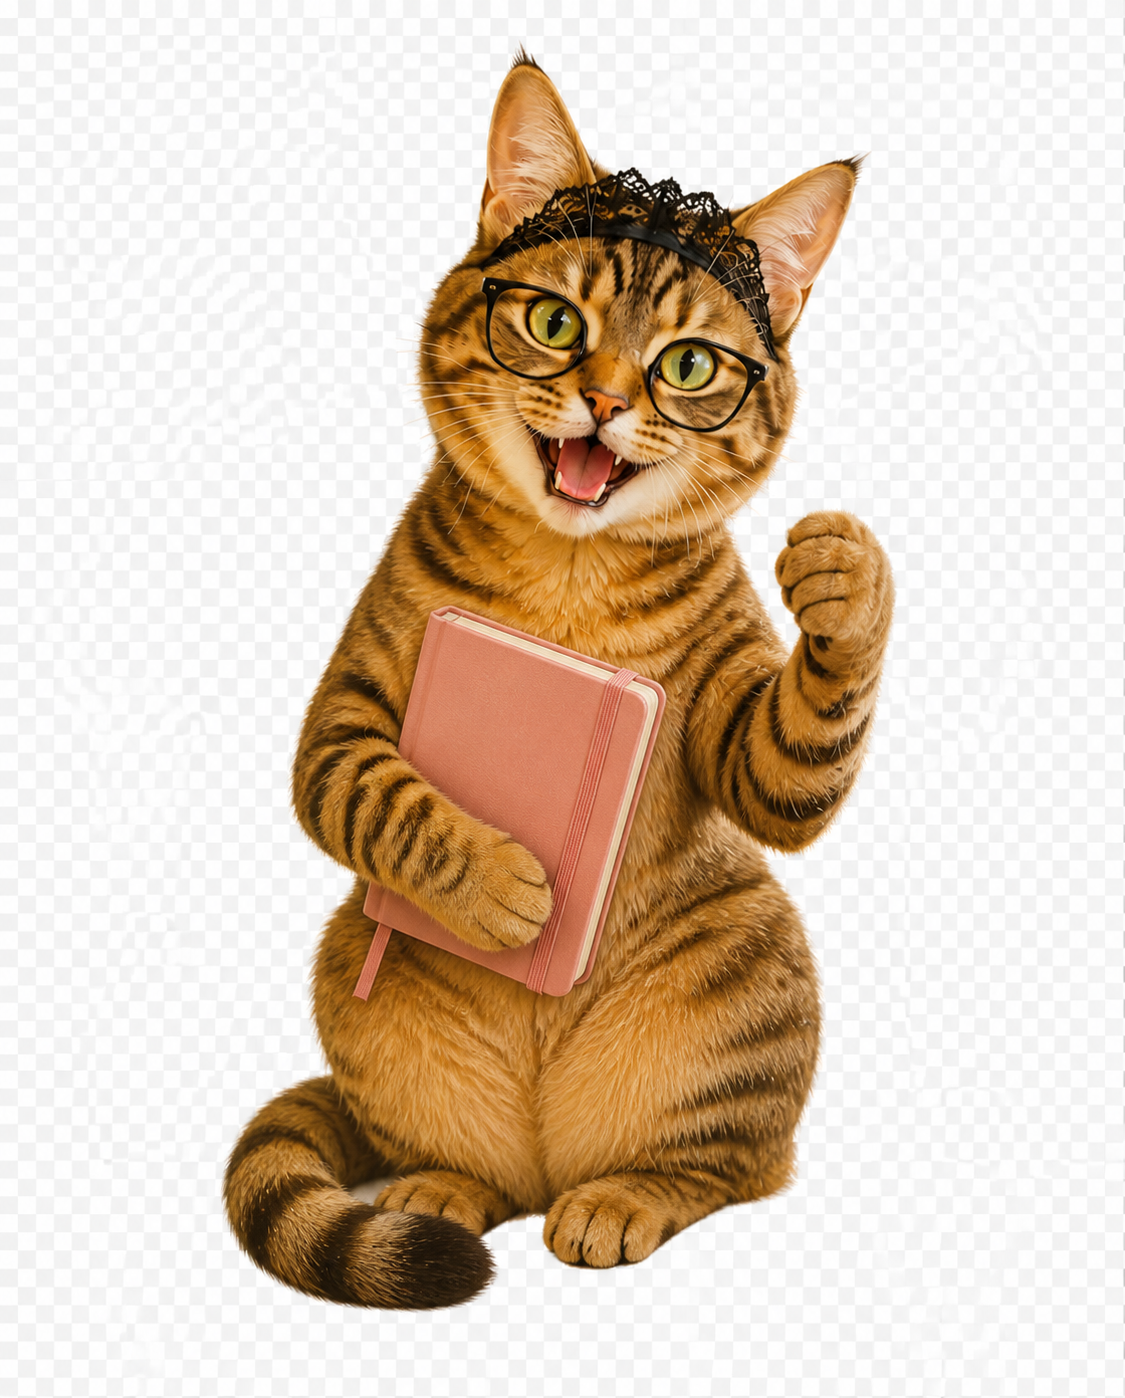
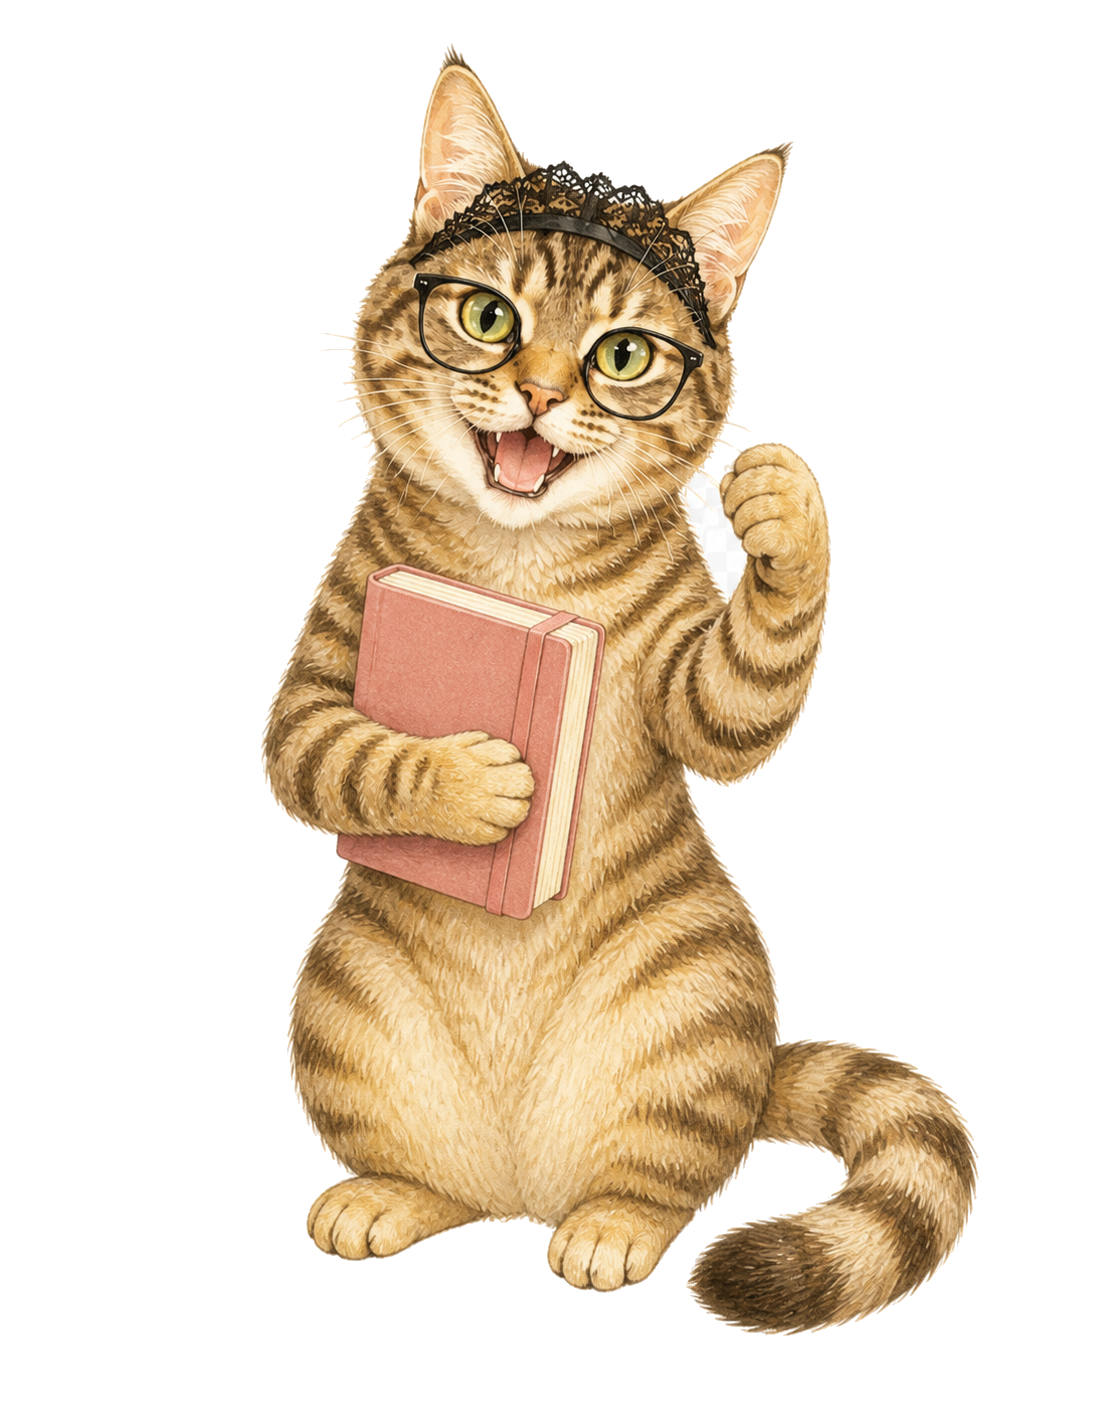
Refine mascot presentation

diff --git a/index.html b/index.html
@@ -9,8 +9,8 @@
     <meta property="og:title" content="簿記3級 合格伴走室" />
     <meta property="og:description" content="今日も焦らず、ひとつずつ。やさしい簿記学習手帳。" />
     <title>簿記3級 合格伴走室</title>
-    <script type="module" crossorigin src="/boki3-study-companion/assets/index-DH_ncrHz.js"></script>
-    <link rel="stylesheet" crossorigin href="/boki3-study-companion/assets/index-DgE5EKwQ.css">
+    <script type="module" crossorigin src="/boki3-study-companion/assets/index-DrpkloCL.js"></script>
+    <link rel="stylesheet" crossorigin href="/boki3-study-companion/assets/index-CmdGVyzX.css">
   </head>
   <body><div id="root"></div></body>
 </html>
